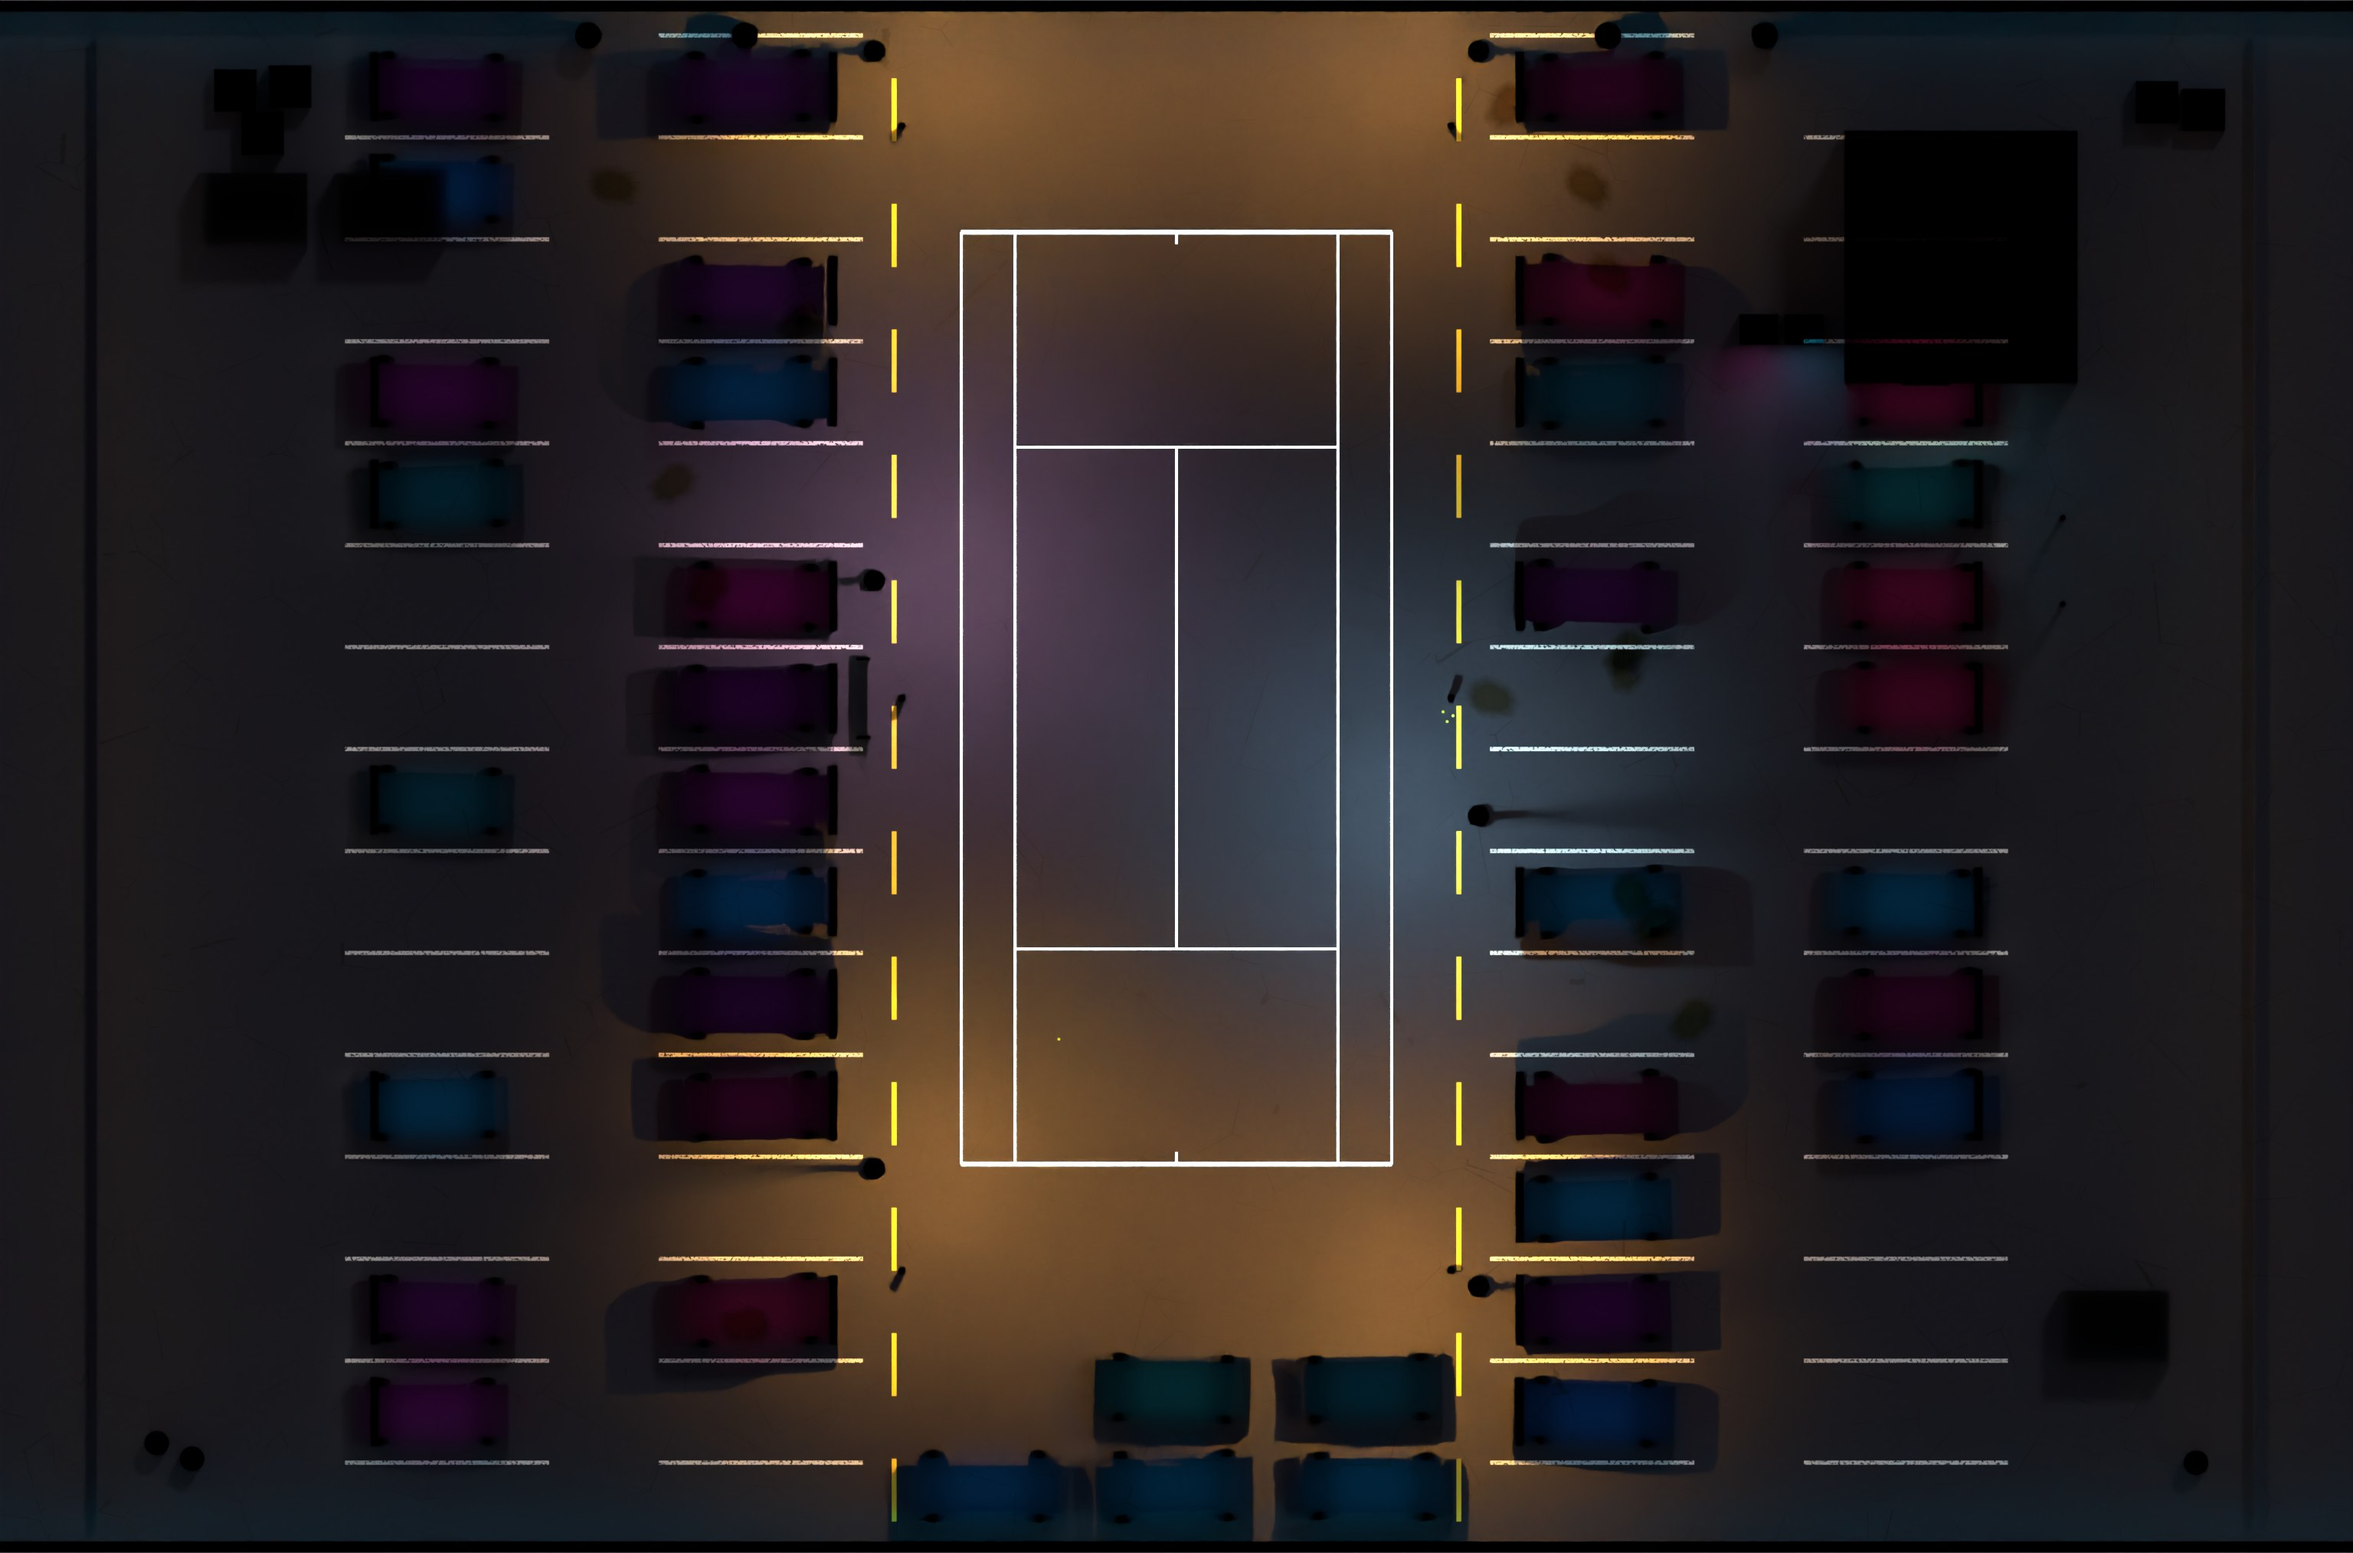
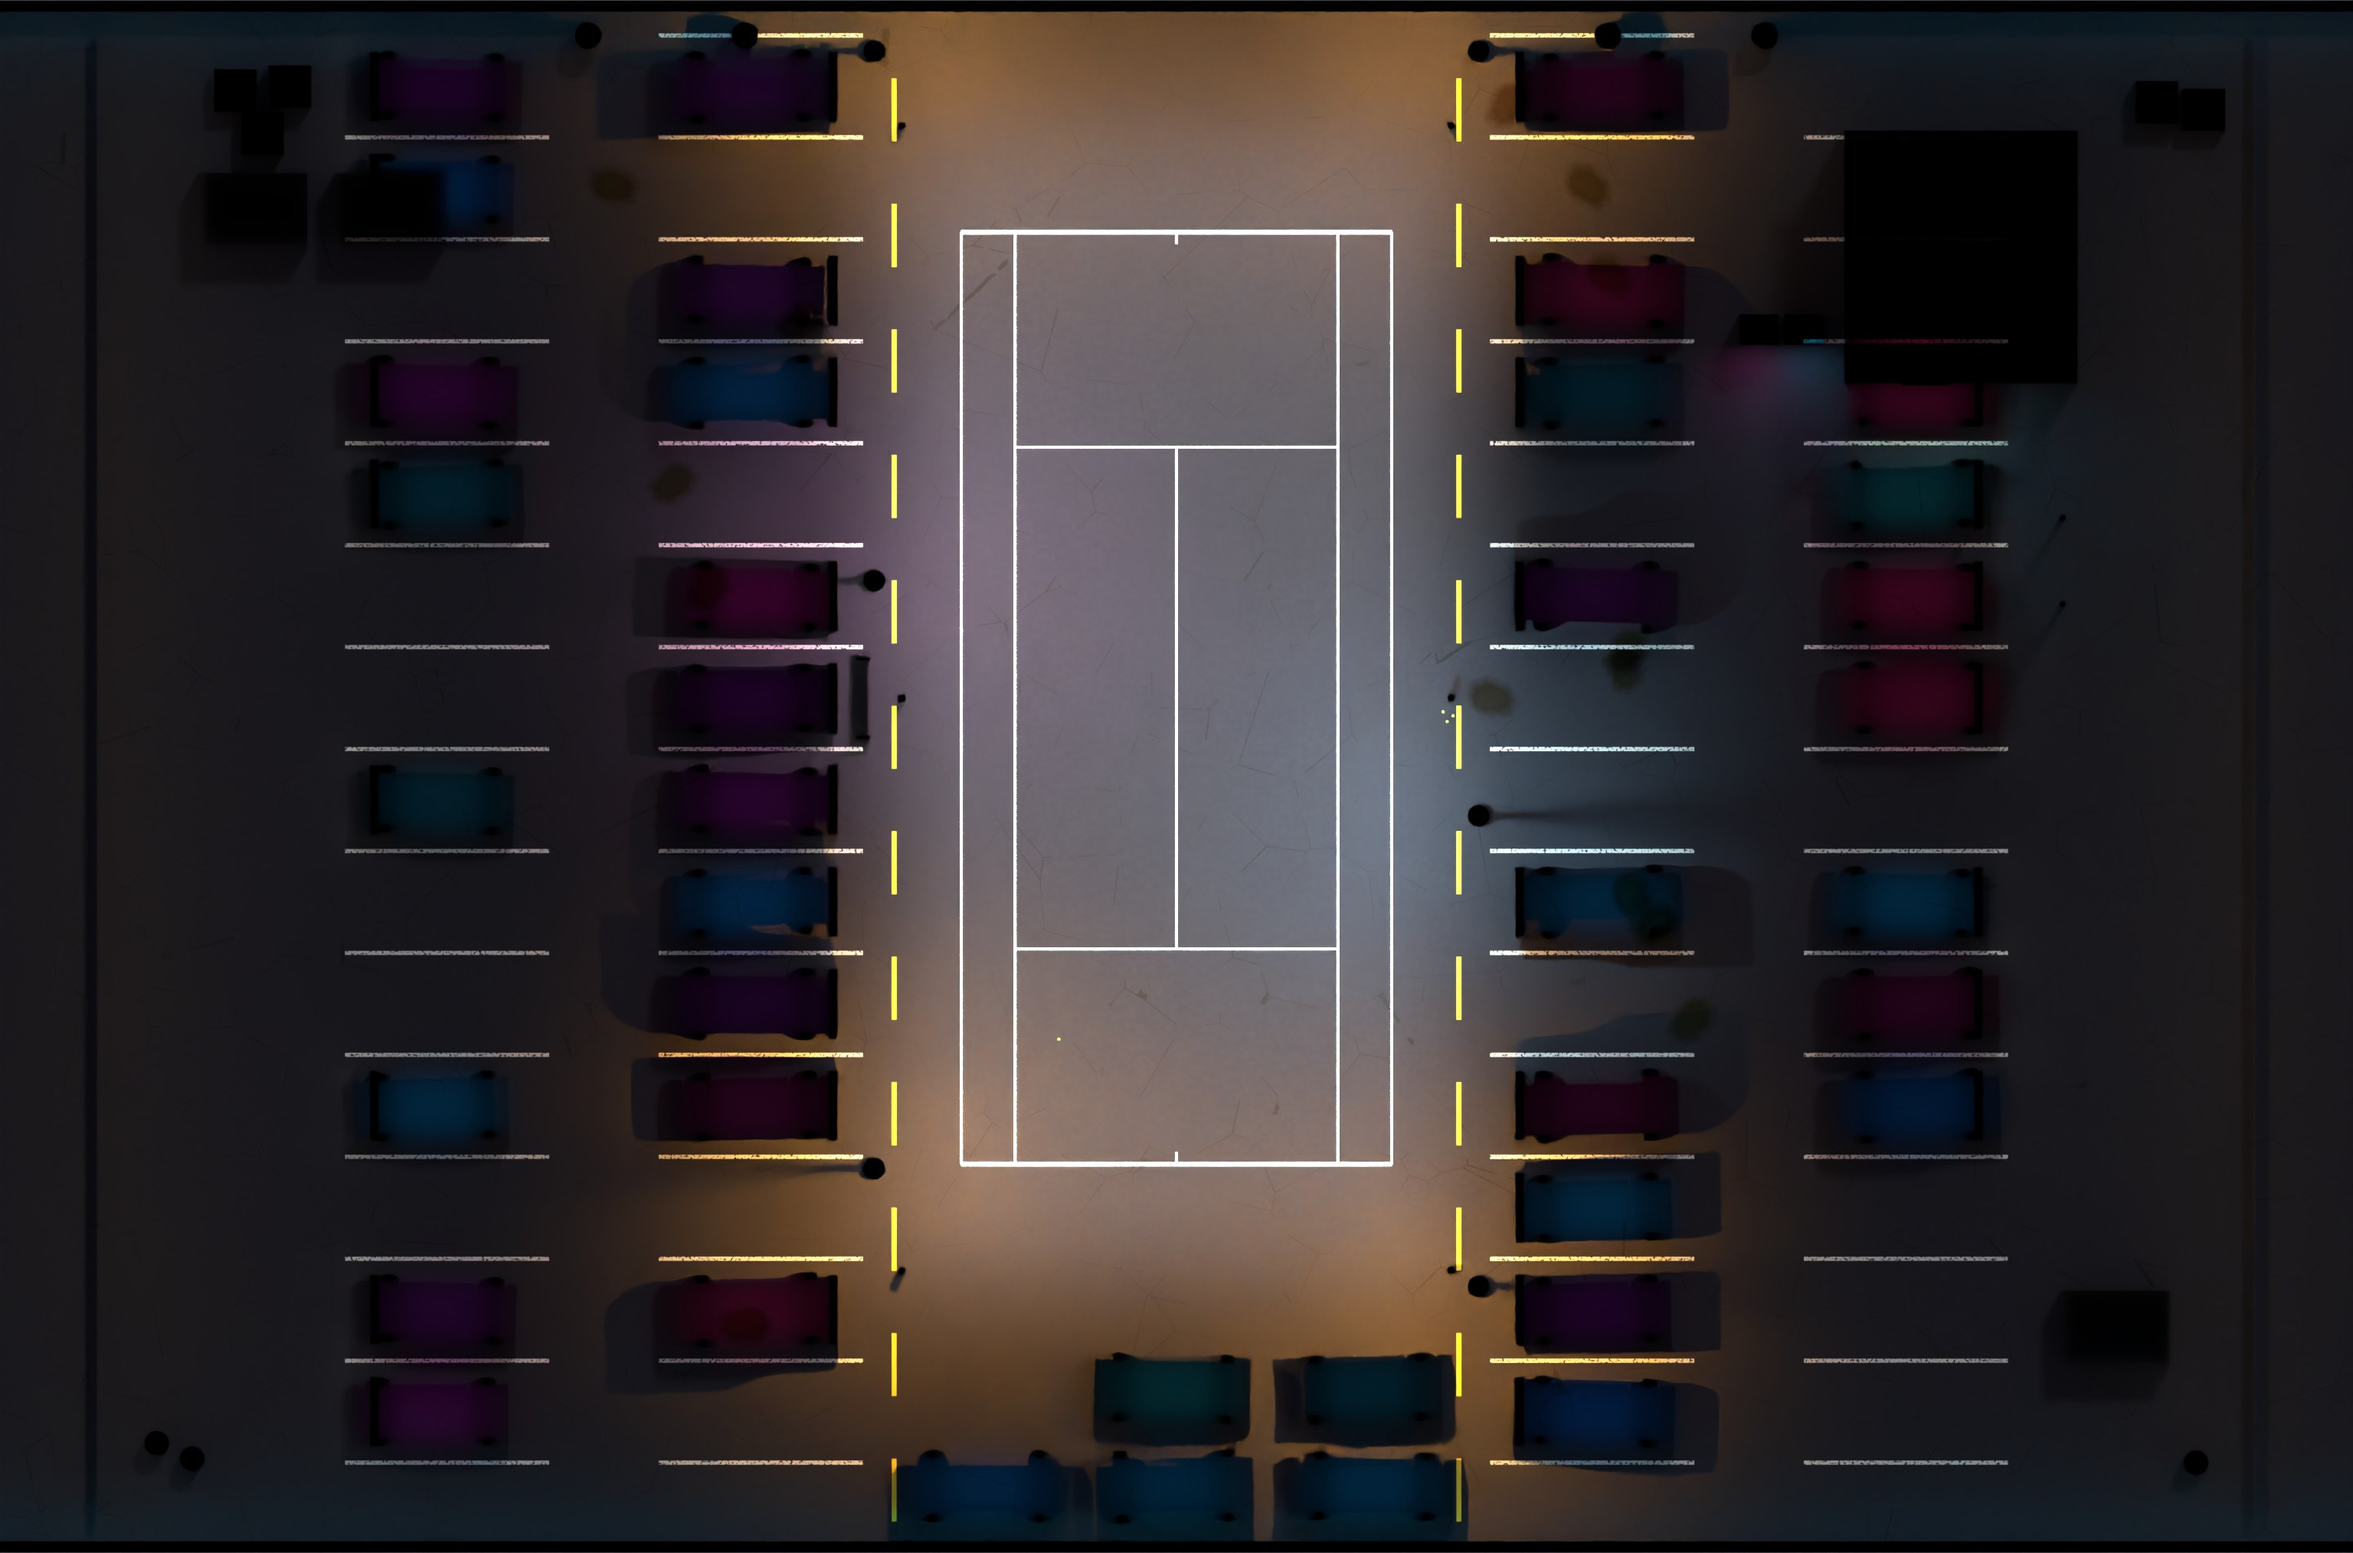
3D trial: white net, softer billboard, floodlit court
- Net tape white like the lines, net cords dark
- Billboard at 0.6 brightness, the one neon accent
- Court lines cool white
- A soft neutral floodlight over the court in the bake, so the court
  stands out from the darker lot; rooftop rebaked

Claude-Session: https://claude.ai/code/session_01Rpa26SgeWM8JtAjdDteP48

Changed region(s): [[0.3438, 0.0621, 0.6562, 0.8388]]

diff --git a/js/render3d.js b/js/render3d.js
@@ -393,7 +393,7 @@ function buildCourt(scene, C) {
   const D = C.DW, L = C.HL, S = C.SW, B = 2 * C.LW;
   const lines = [[-D, -L, D, -L, B], [-D, L, D, L, B], [-D, -L, -D, L], [D, -L, D, L], [-S, -L, -S, L], [S, -L, S, L],
     [-S, -C.SL, S, -C.SL], [-S, C.SL, S, C.SL], [0, -C.SL, 0, C.SL], [0, -L, 0, -L + 0.3], [0, L, 0, L - 0.3]];
-  const mat = new THREE.MeshBasicMaterial({ color: new THREE.Color(0.24, 0.8, 0.95) });
+  const mat = new THREE.MeshBasicMaterial({ color: new THREE.Color(0.85, 0.95, 1.0) });
   for (const [x1, y1, x2, y2, w0 = C.LW] of lines) {
     const w = Math.max(w0, 0.07);   // a touch wider than real, so far lines don't break up
     const len = Math.hypot(x2 - x1, y2 - y1) + w;
@@ -415,9 +415,9 @@ function buildNet(scene, C) {
   const grid = canvasTex(32, 32, (g) => { g.strokeStyle = '#fff'; g.lineWidth = 2; g.strokeRect(0, 0, 32, 32); }, false);
   grid.wrapS = grid.wrapT = THREE.RepeatWrapping;
   grid.repeat.set(2 * X / 0.07, 1 / 0.07);
-  scene.add(new THREE.Mesh(geo, new THREE.MeshBasicMaterial({ color: new THREE.Color(1.0, 0.2, 0.7), alphaMap: grid, transparent: true, opacity: 0.5, side: THREE.DoubleSide, depthWrite: false })));
+  scene.add(new THREE.Mesh(geo, new THREE.MeshBasicMaterial({ color: new THREE.Color(0.1, 0.1, 0.12), alphaMap: grid, transparent: true, opacity: 0.75, side: THREE.DoubleSide, depthWrite: false })));
   // the tape along the top and the posts
-  const tapeMat = new THREE.MeshBasicMaterial({ color: new THREE.Color(0.95, 0.18, 0.6) });
+  const tapeMat = new THREE.MeshBasicMaterial({ color: new THREE.Color(0.82, 0.86, 0.9) });   // white, like the lines
   const pts = [];
   for (let i = 0; i <= N; i++) { const x = -X + (2 * X * i) / N; pts.push(new THREE.Vector3(x, top(x), 0)); }
   scene.add(new THREE.Mesh(new THREE.TubeGeometry(new THREE.CatmullRomCurve3(pts), 64, 0.03, 6), tapeMat));
@@ -485,12 +485,13 @@ function buildCars(scene, CARS, hash) {
 }
 
 // ---------------- billboard ----------------
+const BOARD_DIM = 0.6;   // the one neon accent left, kept soft against the concrete
 function buildBoard(scene, R) {
   const B = R.BOARD;
   const grp = new THREE.Group();
   const tex = new THREE.CanvasTexture(document.createElement('canvas'));
   tex.colorSpace = THREE.SRGBColorSpace;
-  const mat = new THREE.MeshBasicMaterial({ map: tex, color: new THREE.Color(1.15, 1.15, 1.15), transparent: true, fog: false, side: THREE.DoubleSide });
+  const mat = new THREE.MeshBasicMaterial({ map: tex, color: new THREE.Color(BOARD_DIM, BOARD_DIM, BOARD_DIM), transparent: true, fog: false, side: THREE.DoubleSide });
   const sign = new THREE.Mesh(new THREE.PlaneGeometry(B.w, B.h), mat);
   sign.position.y = B.z + B.h / 2;
   const post = new THREE.Mesh(new THREE.BoxGeometry(0.5, B.z, 0.5), new THREE.MeshStandardMaterial({ color: 0x1c1b2a, roughness: 0.6 }));
@@ -508,7 +509,7 @@ function buildBoard(scene, R) {
         tex.image = src; tex.needsUpdate = true;
         lastSrc = src; lastKey = src.key;
       }
-      mat.color.setScalar(1.15 * on);
+      mat.color.setScalar(BOARD_DIM * on);
     },
   };
 }

diff --git a/tools/rooftop-bake/scene.py b/tools/rooftop-bake/scene.py
@@ -357,6 +357,10 @@ for x, y, hexc in LAMPS:
     light = tuple(0.5 * c + 0.5 for c in col[:3]) + (1,) if neon else col
     spot("Lamp", (hx, y, 7.33), light, 3600 if neon else 9000, 125, soft=0.25)
 
+# court floodlight: a soft neutral wash over the court only, so it stands out from the darker lot
+fl = area_light("CourtFlood", (0, 0, 10.0), (1.0, 0.95, 0.88, 1), float(os.environ.get("FLOOD", "2500")), 2 * DW + 3, 2 * HL + 5)
+fl.data.spread = math.radians(float(os.environ.get("FLOOD_SPREAD", "35")))
+
 # ---------------------------------------------------------------- props: stair tower, HVAC units, bollards, bench
 box("StairTower", (17.0, 8.0, 0), (23.0, 14.5, 4.2), conc, bevel=0.05)
 box("StairRoof", (16.8, 7.8, 4.2), (23.2, 14.7, 4.4), metal)
